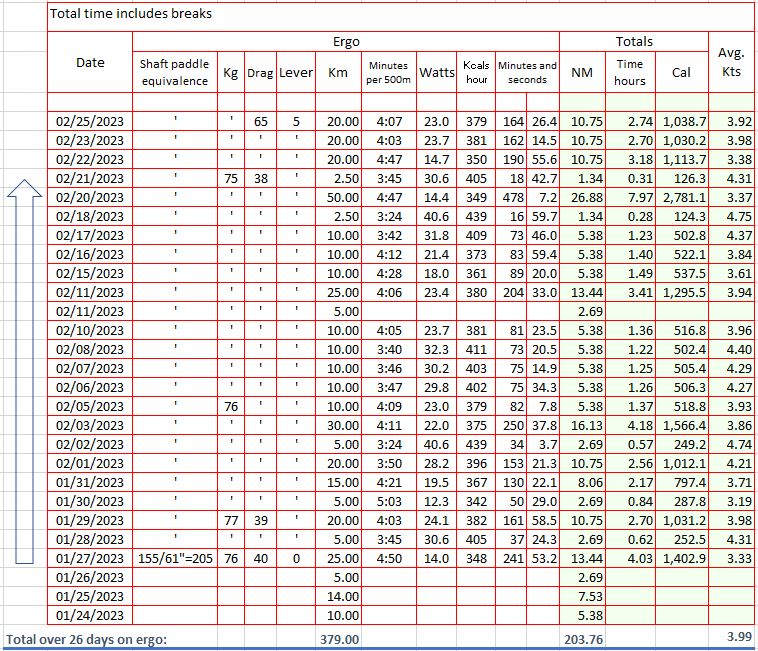
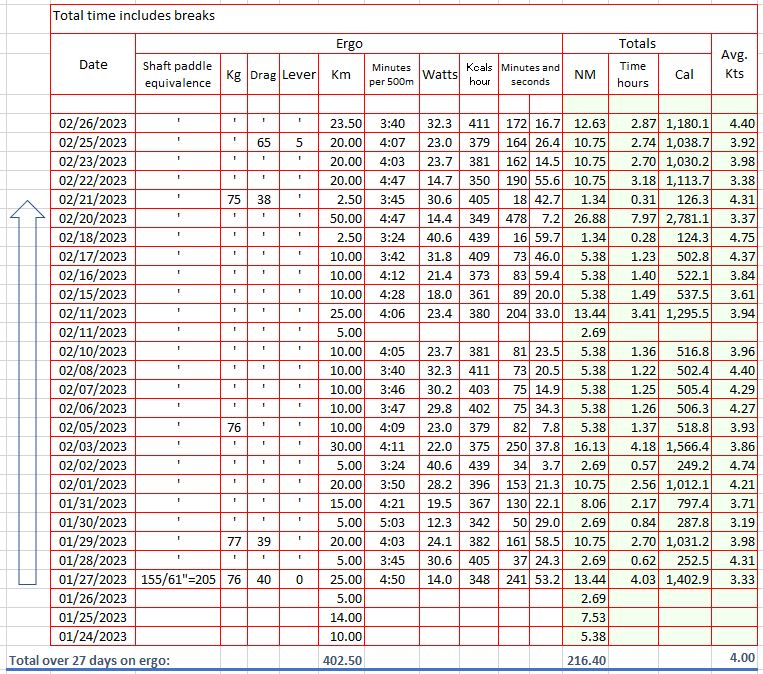
updates

diff --git a/dry-run/log/index.html b/dry-run/log/index.html
@@ -214,11 +214,11 @@ $(document).ready(function(){
 <p>This is not the actual trip. This is just training mapped on chart to have an idea of what the real thing might be.</p>
 </blockquote>
 <blockquote>
-<p>February 25, 2023</p>
+<p>February 26, 2023</p>
 </blockquote>
-<p><img src="/img/feb25.JPG" alt="February 25">
+<p><img src="/img/feb26.JPG" alt="February 26">
 <div style="text-align: center">
-26 days on ergo, 204 nautical miles, or 379 Km
+27 days on ergo, 216 nautical miles, or 402 Km
 </div>
 </p>
 <p><img src="/img/Stats.JPG" alt="Stats">
